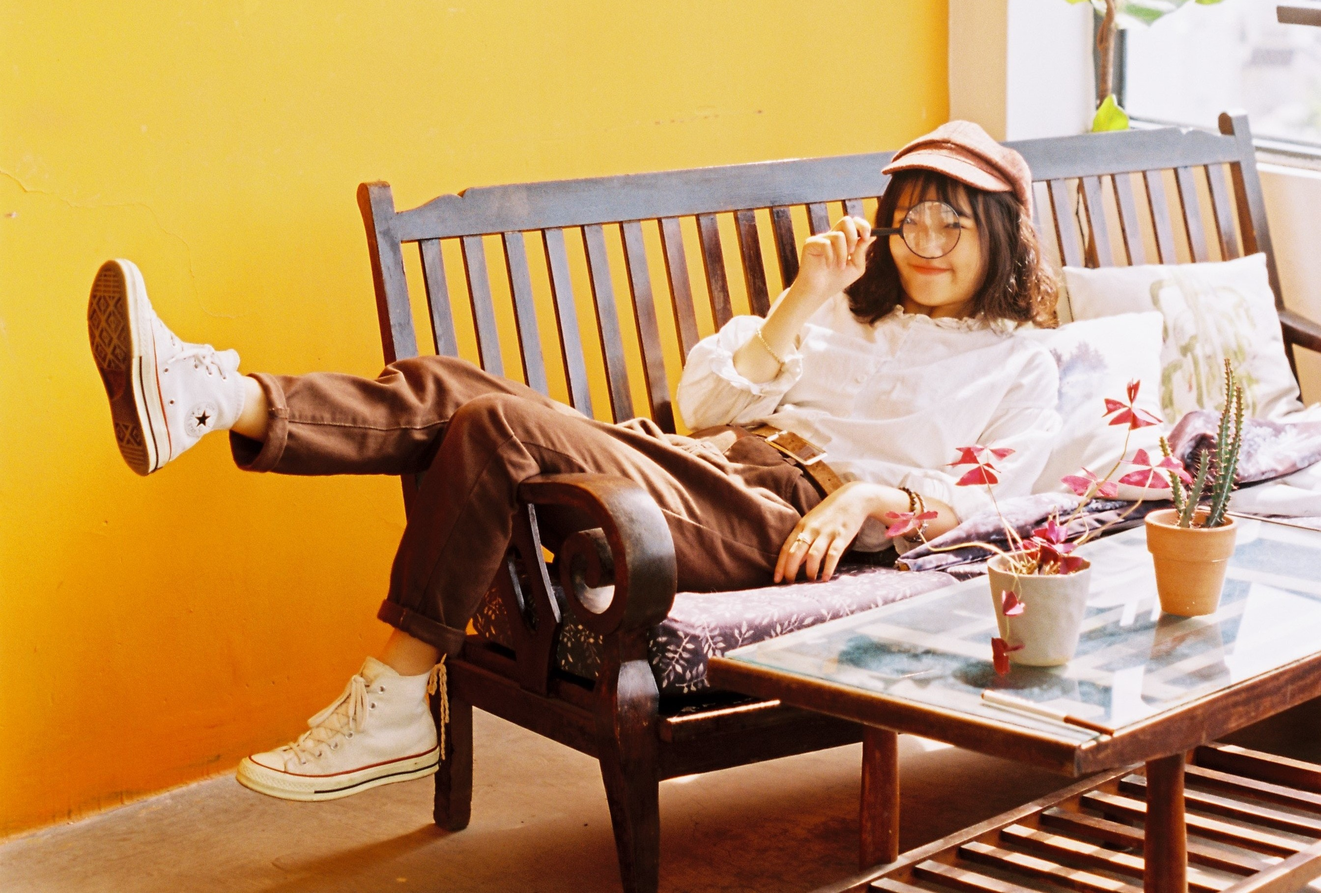
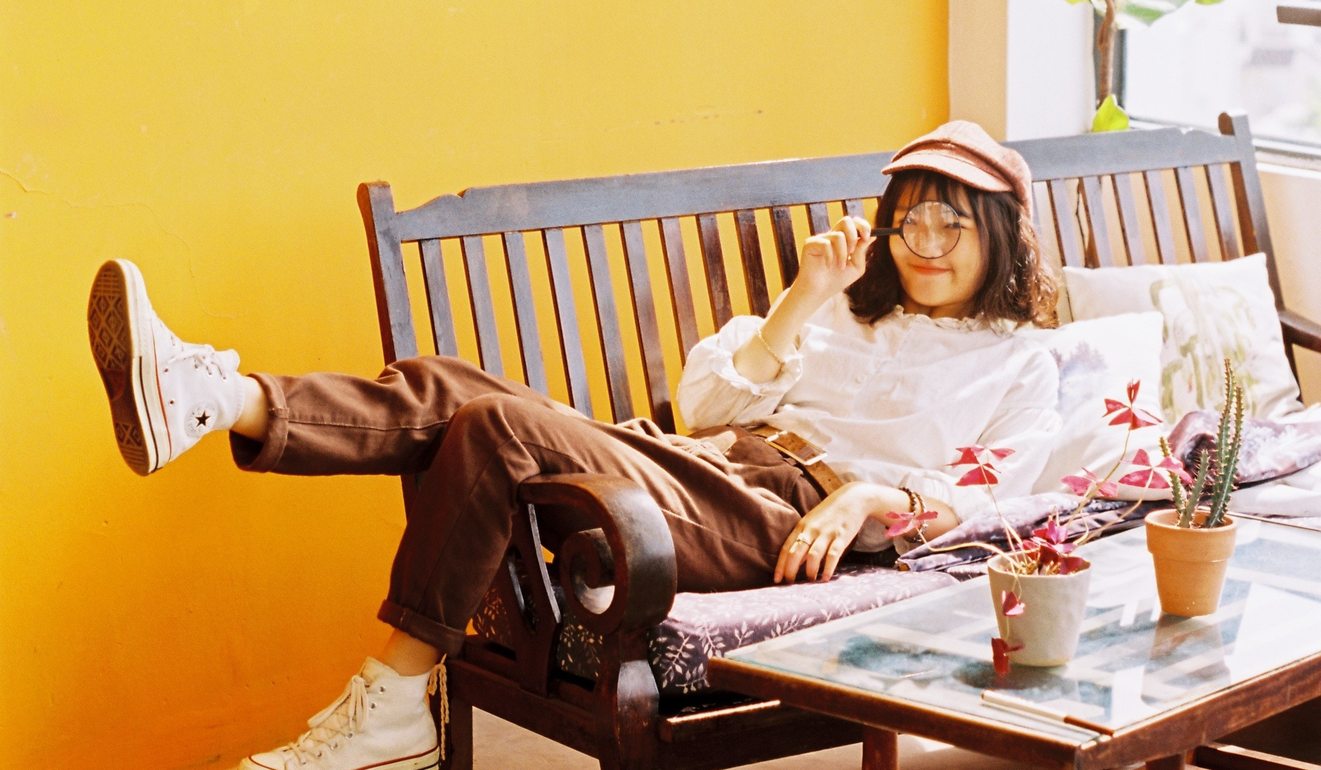
style for home, about, and contact, plus footer

diff --git a/womensenterprises/src/components/DisplayAbout/DisplayAbout.js b/womensenterprises/src/components/DisplayAbout/DisplayAbout.js
@@ -1,33 +1,35 @@
 import './DisplayAbout.css';
 import {Link} from 'react-router-dom'
+import HeroImage from '../../images/Landing/pexels-hoang-loc-cropped.jpg';
 
 export default function DisplayAbout({aboutData}) {
     console.log(aboutData)
     if (aboutData) {
         return (
             <div id="DisplayAbout">
+                <figure className = "jumbotron">
+                    <img id="heroImg" src = {HeroImage} alt="person reclining on a bench looking through a magnifying glass"></img>
+                </figure>
                  <div className="aboutDivText">
                     <h1 className="textH1">{aboutData.missionTitle}</h1>
                     <div className="textContent">{aboutData.mission}</div>
                 </div>
                 <div className="aboutDivText">
-                    <h1 className="textH1">{aboutData.founderTitle}</h1>
+                    <h1 className="textH1 founderTitle">{aboutData.founderTitle}</h1>
                     <div id="aboutFounderDiv">
                         <img src={aboutData.founderImgUrl} alt="Dolly Duff, Founder"></img>
                         <div className="textContent">{aboutData.founderAbout}</div>
                     </div>
                 </div>
                 <div className="aboutDivText">
-                    <div className="textContent">
-                        {aboutData.communityPartnersLinkText}
+                    <div>
+                        {aboutData.communityPartnersLinkText + " "}
                         <Link to = { process.env.PUBLIC_URL + "/communityPartners" }>Visit our Community Partners Page!</Link>
                     </div>
                 </div>
                 <div className="aboutDivText">
                     <h1 className="textH1">{aboutData.moreDetailsTitle}</h1>
                     <div className="textContent">{aboutData.moreDetails}</div>
-                </div>
-                <div className="aboutDivText">
                     <div className="textContent">
                         <Link to = { process.env.PUBLIC_URL + "/governmentVending" }>{aboutData.governmentVendingLinkText}</Link>
                     </div>

diff --git a/womensenterprises/src/components/displayHome/displayHome.js b/womensenterprises/src/components/displayHome/displayHome.js
@@ -7,15 +7,21 @@ export default function DisplayHome({homeData}) {
             <div id="displayHome">
                 <div className="textDiv">
                     <h1 className="textH1">{homeData.recentMessageTitle}</h1>
-                    <div className="textContent">{homeData.recentMessage}</div>
+                    {homeData.recentMessage.split("\n").map((element, index) => {
+                        return <div className = "textContent" key={index}>{element}</div>
+                    })}
                 </div>
                  <div className="textDiv">
                     <h1 className="textH1">{homeData.missionTitle}</h1>
-                    <div className="textContent">{homeData.mission}</div>
+                    {homeData.mission.split("\n").map((element, index) => {
+                        return <div className = "textContent" key={index}>{element}</div>
+                    })}
                 </div>
                 <div className="textDiv">
                     <h1 className="textH1">{homeData.resultsTitle}</h1>
-                    <div className="textContent">{homeData.results}</div>
+                    {homeData.results.split("\n").map((element, index) => {
+                        return <div className = "textContent" key={index}>{element}</div>
+                    })}
                 </div>
             </div>
             )

diff --git a/womensenterprises/src/components/DisplayAbout/DisplayAbout.css b/womensenterprises/src/components/DisplayAbout/DisplayAbout.css
@@ -1,0 +1,52 @@
+#DisplayAbout {
+    margin: 0px 15px 0px 15px;
+    padding: 0px;
+    text-align: center;
+    background-color: antiquewhite !important;
+}
+
+.jumbotron {
+    background-color: antiquewhite;
+    margin: 0px auto 0px auto !important;
+    padding: 0px !important;
+}
+
+#heroImg {
+    width: 100%;
+    height: 650px;
+    object-fit: cover;
+}
+
+#aboutFounderDiv {
+    display: flex;
+    margin: auto;
+    width: 80%;
+}
+
+#aboutFounderDiv img {
+    margin-right: 25px;
+    max-width: 40%;
+    object-fit: cover
+}
+
+.founderTitle {
+    margin-top:0px !important;
+    padding-top:20px;
+}
+
+.aboutDivText {
+    margin: 0px auto 0px auto;
+    width: 80vw;
+    padding: 0px 5vw 10vw 5vw;
+    background-color: rgb(253, 245, 234);
+}
+
+.aboutDivText:last-of-type {
+    background-color: antiquewhite;
+    border-top: 1px solid #444;
+}
+
+.aboutDivText:first-of-type {
+    background-color: antiquewhite;
+    border-bottom: 1px solid #444;
+}

diff --git a/womensenterprises/src/App.css b/womensenterprises/src/App.css
@@ -2,16 +2,38 @@
   text-align: center;
 }
 
-
-.App-logo {
-  height: 40vmin;
-  pointer-events: none;
+.main {
+  background-color: #444;
 }
 
-@media (prefers-reduced-motion: no-preference) {
-  .App-logo {
-    animation: App-logo-spin infinite 20s linear;
-  }
+
+
+.textH1 {
+  margin-top: 70px;
+  padding-bottom: 15px;
+  text-decoration: none; 
+  position: relative; 
+  margin-bottom: 70px;
+  line-height: 1.6; 
+}
+
+.textH1:after {
+    position: absolute;
+    height: 1px;
+    margin: 0 auto;
+    content: '';
+    left: 0;
+    right: 0;
+    width: 50%;
+    color: #000;
+    background-color: rgb(1, 110, 117);
+    left: 0;
+    bottom: -3px; /* adjust this to move up and down. you may have to adjust the line height of the paragraph if you move it down a lot. */
+}
+
+
+.textContent {
+  margin-top: 20px;
 }
 
 .App-header {

diff --git a/womensenterprises/src/components/Footer/Footer.js b/womensenterprises/src/components/Footer/Footer.js
@@ -1,0 +1,22 @@
+import Insta from '../../images/icons/instagram.png';
+import Facebook from '../../images/icons/facebook.png';
+import "./Footer.css";
+
+function Footer(){
+    return (
+        <footer>
+            <p id="copyright">© Women's Enterprises 2021</p>
+            <div id="socialMedia">
+                <button id="FB"><a href="https://www.facebook.com/SDCreativeArtsProject/" target="_blank"
+                        rel="noreferrer"><img src={Facebook} alt="facebook icon" /></a></button>
+
+                <button id="insta"><a href="https://www.instagram.com/sdcreativearts/" target="_blank" rel="noreferrer">
+                    <img src={Insta} alt="instagram icon" ></img>
+                    </a></button>
+            </div>
+        </footer>
+    )
+}
+
+
+export default Footer;

diff --git a/womensenterprises/src/components/DisplayContact/DisplayContact.js b/womensenterprises/src/components/DisplayContact/DisplayContact.js
@@ -7,10 +7,10 @@ export default function DisplayContact({ContactData}) {
     if (ContactData) {
         return (
             <div id="DisplayContact">
-                 <div className="Jumbotron">
+                 <div className="jumbotron contactJumbo">
                     <h1 className="textH1">Get In Touch!</h1>
                 </div>
-                <div className="ContactButtons">
+                <div className="contactButtons">
                     <div className="emailButton">
                     <Link to='#' onClick={(e) => {window.location = `mailto:${ContactData.email}`}}>
                         <img className = "contactIcon" src={EmailIcon} alt="envelope icon"></img>

diff --git a/womensenterprises/src/components/displayHome/displayHome.css b/womensenterprises/src/components/displayHome/displayHome.css
@@ -1,14 +1,14 @@
 #displayHome {
     margin: 0px 15px 0px 15px;
-    padding: 50px;
+    padding: 10vw;
     text-align: center;
     background-color: antiquewhite;
-    
 }
 
 .textDiv {
-    margin: 0px 200px 0px 200px;
-    padding: 85px 45px 85px 45px;
+    margin: 0px auto 0px auto;
+    width: 80vw;
+    padding: 0px 5vw 10vw 5vw;
     border-bottom: 1px solid #444;
     border-top: 1px solid #444;
     background-color: rgb(253, 245, 234);
@@ -17,12 +17,4 @@
 .textDiv:last-of-type, .textDiv:first-of-type {
     background-color: antiquewhite;
     border: none;
-}
-
-.textH1 {
-    text-decoration: underline;
-}
-
-.textContent {
-    margin-top: 20px;
 }

diff --git a/womensenterprises/src/components/Footer/Footer.css b/womensenterprises/src/components/Footer/Footer.css
@@ -1,0 +1,39 @@
+/* footer */
+
+#notFooter {
+    flex: 1 0 auto;
+  }
+  
+footer {
+    background-color: #444;
+    color: whitesmoke;
+    padding: 20px 10px 10px 10px;
+    margin: 0px;
+    width: 100vw;
+    display: flex;
+    justify-content: center;
+    flex-shrink: 0;
+}
+
+#copyright {
+    margin-top: 5px;
+}
+
+#socialMedia {
+    margin-left: 30px;
+}
+
+footer button {
+    border: none;
+    background: none;
+}
+
+footer button img {
+    width: 30px !important;
+    height: 30px !important;
+}
+
+footer button img:hover {
+    filter: invert(10);
+}
+  

diff --git a/womensenterprises/src/pages/About/About.js b/womensenterprises/src/pages/About/About.js
@@ -3,6 +3,7 @@ import Nav from '../../components/nav/nav';
 import { useEffect, useState } from 'react';
 import DisplayAbout from '../../components/DisplayAbout/DisplayAbout';
 import './About.css';
+import Footer from "../../components/Footer/Footer";
 
 export default function About(){
 
@@ -40,10 +41,12 @@ export default function About(){
 
 
     return (
-        <div>
+        <div className="main">
             <Nav />
 
             <DisplayAbout aboutData={aboutData} />
+
+            <Footer />
         </div>
     )
 }

diff --git a/womensenterprises/src/components/DisplayContact/DisplayContact.css b/womensenterprises/src/components/DisplayContact/DisplayContact.css
@@ -1,0 +1,27 @@
+#DisplayContact {
+    margin: 0px 15px 0px 15px;
+    padding: 0px;
+    text-align: center;
+    background-color: antiquewhite !important;
+    height: 80vh;
+}
+
+.contactJumbo {
+    padding-top: 50px !important;
+    margin-top: 0px !important;
+}
+
+.contactButtons {
+    margin: -68px 200px 0px 200px;
+    padding: 85px 45px 85px 45px;
+    background-color: rgb(253, 245, 234);
+}
+
+.emailButton {
+    width: 200px;
+    margin: auto;
+}
+
+.emailButton img {
+    max-width: 100%;
+}

diff --git a/womensenterprises/src/pages/home/home.js b/womensenterprises/src/pages/home/home.js
@@ -49,7 +49,7 @@ export default function Home(){
     console.log("Home Data from home.js: ", homeData)
     console.log("loading from home.js:", loading)
     return (
-        <div>
+        <div className="main">
             <Nav></Nav>
             
             <div id="homepage">

diff --git a/womensenterprises/src/pages/CommunityPartners/CommunityPartners.js b/womensenterprises/src/pages/CommunityPartners/CommunityPartners.js
@@ -33,7 +33,7 @@ export default function CommunityPartners(){
 
 
     return (
-        <div>
+        <div className="main">
             <Nav />
             <DisplayCommunityPartners CommunityPartnersData = {CommunityPartnersData}/>
         </div>
